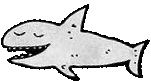
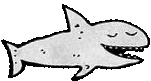
reversed shark.png, added some code.

diff --git a/fishGame/fishGame.py b/fishGame/fishGame.py
@@ -22,45 +22,50 @@ score
 import pygame, sys
 from pygame.locals import *
 
-SCREENRECT = Rect(0,0,640,480)
+screenSize = Rect(0,0,640,480)  #sets the screen size
 #screenSize = (640, 480)
-fpsClock = pygame.time.Clock()
+fpsClock = pygame.time.Clock()  #this is for syncing fps in the game.  currently unused
 BLUE = (0, 0, 255)
 bg_image = 'aquarium.jpg'
 shark = 'shark.png'
 food = 'dsham.png'
 
 
-def main():
-    pygame.init()
+def main():  #the main?
+    pygame.init()  #this initializes mygame
 
-    screen = pygame.display.set_mode((SCREENRECT.size),0,32)
-    pygame.display.set_caption('Ultimate Fish Game')
+    screen = pygame.display.set_mode((screenSize.size),0,32)  #this creates the screen
+    pygame.display.set_caption('Ultimate Fish Game')#the title
     
-    background = pygame.image.load(bg_image).convert()
-    mouse_c = pygame.image.load(shark).convert_alpha()
+    background = pygame.image.load(bg_image).convert() #this prepares the jpg image
+    mouse_cursor = pygame.image.load(food).convert_alpha() #this prepares the png image - 'alpha' for transparency
+    pygame.mouse.set_visible(False)         #this hides the mouse pointer
     
     #bg = screen.fill(BLUE)
     
     while True: #main game loop
-        for event in pygame.event.get():
+        for event in pygame.event.get()
             if event.type == QUIT:
                 pygame.quit()
                 sys.exit()
 
-        screen.blit(background, (0,0))   
+        screen.blit(background, (0,0))      #this keeps redrawing the background, so no trails on mouse_cursor image
 
-        x,y = pygame.mouse.get_pos()
-        x -= mouse_c.get_width()/2
-        y -= mouse_c.get_height()/2
+        x,y = pygame.mouse.get_pos()        #gets the mouse position
+        x -= mouse_cursor.get_width()/2     #these get the center of the mouse cursor image
+        y -= mouse_cursor.get_height()/2    #these get the center of the mouse cursor image
 
-        screen.blit(mouse_c,(x,y))
+        screen.blit(mouse_cursor,(x,y))     #not sure what this does
 
-        pygame.display.update()
+        pygame.display.update()  #not sure what this does
+
+## todo:    stamp a ham on mouseclick
+##          draw a shark on the page (and make it move towards food) 
+##          
+##
 
 
-
-main()
+main()  #starts the main() def
 
 
 #class sharkSprite(pygame.sprite.Sprite):
